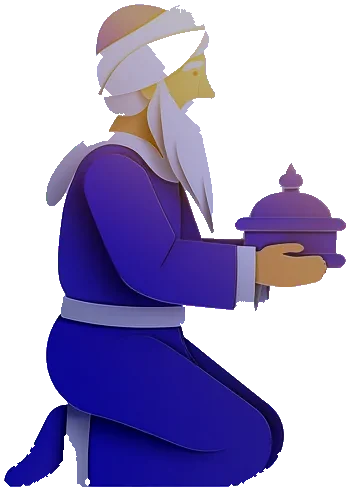
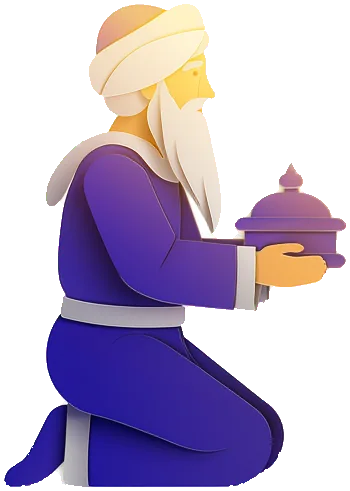
Journey: the blue king solid as he kneels at the stable; Pip no longer gets stuck at the edge of the screen when the evening starts

diff --git a/src/journey/journey.js b/src/journey/journey.js
@@ -1850,7 +1850,11 @@
 		var base = cam * DAYW - LEAD_X;                          // world position of the screen's left edge
 		if (pip.u == null) { pip.u = base + Math.max(40, LEAD_X - CHAR_BACK[2] - 160); pip.target = pip.u; pip.state = 'sit'; pip.until = clock + 3 + pip.rng() * 3; }
 		var e = evening();
-		if (e > 0.6) { pipEvening(dt, base); return; }
+		if (e > 0.6) {
+			if (!pip.eve) { pip.eve = true; pip.state = 'sit'; pip.called = false; pip.until = clock + 0.8; }   // (his walking target was a place on the road; in the evening they're places on the screen)
+			pipEvening(dt, base); return;
+		}
+		pip.eve = false;
 		var sx = pip.u - base;
 		if (show && show.mode === 'sofar' && e === 0) {
 			// the time-lapse races along far faster than a mouse can run, so he keeps up with the caravan instead
@@ -1875,13 +1879,13 @@
 			// he sits a while; if the caravan has left him far behind, he sets off sooner
 			if (clock > pip.until || sx < 30 || sx > VW - 30) {
 				var off = PIP_SPOTS[Math.floor(pip.rng() * PIP_SPOTS.length)];
-				pip.target = cam * DAYW + off + (walk > 0.5 ? 60 : 0);    // a little ahead of where that spot is now, as they're moving
+				pip.target = clamp(cam * DAYW + off + (walk > 0.5 ? 60 : 0), base + 40, base + VW - 40);    // a little ahead of where that spot is now, as they're moving (and on screen)
 				pip.state = 'trot';
 			}
 		} else {
 			var tgt = pip.target, d2 = Math.sign(tgt - pip.u), step = 150 * dt;
 			pip.dir = d2 || pip.dir;
-			if (Math.abs(tgt - pip.u) <= step) { pip.u = tgt; pip.state = 'sit'; pip.until = clock + 5 + pip.rng() * 5; }
+			if (Math.abs(tgt - pip.u) <= step || (d2 > 0 ? pip.u >= base + VW - 25 : pip.u <= base + 25)) { pip.u = clamp(tgt, base + 24, base + VW - 24); pip.state = 'sit'; pip.until = clock + 5 + pip.rng() * 5; }   // (or he's reached the edge of the screen)
 			else pip.u += d2 * step;
 		}
 		pip.u = clamp(pip.u, base + 24, base + VW - 24);             // always on screen

diff --git a/src/journey/index.html b/src/journey/index.html
@@ -309,14 +309,14 @@ header, .player, .rotate {transition:transform 0.5s ease, opacity 0.5s ease;}
 	</footer>
 
 	<script src="/assets/js/site.js" defer></script>
-	<script src="/journey/camels.js?v=202610242222" defer></script>
-	<script src="/journey/camel-rig.js?v=202610242222" defer></script>
-	<script src="/journey/art-ready.js?v=202610242222" defer></script>
-	<script src="/journey/readings.js?v=202610242222" defer></script>
-	<script src="/journey/pip.js?v=202610242222" defer></script>
-	<script src="/journey/plan.js?v=202610242222" defer></script>
-	<script src="/journey/audio-ready.js?v=202610242222" defer></script>
-	<script src="/journey/sound.js?v=202610242222" defer></script>
-	<script src="/journey/journey.js?v=202610242222" defer></script>
+	<script src="/journey/camels.js?v=202610250043" defer></script>
+	<script src="/journey/camel-rig.js?v=202610250043" defer></script>
+	<script src="/journey/art-ready.js?v=202610250043" defer></script>
+	<script src="/journey/readings.js?v=202610250043" defer></script>
+	<script src="/journey/pip.js?v=202610250043" defer></script>
+	<script src="/journey/plan.js?v=202610250043" defer></script>
+	<script src="/journey/audio-ready.js?v=202610250043" defer></script>
+	<script src="/journey/sound.js?v=202610250043" defer></script>
+	<script src="/journey/journey.js?v=202610250043" defer></script>
 </body>
 </html>
